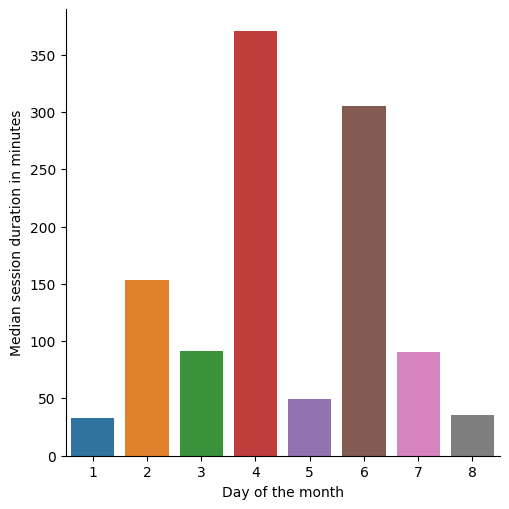
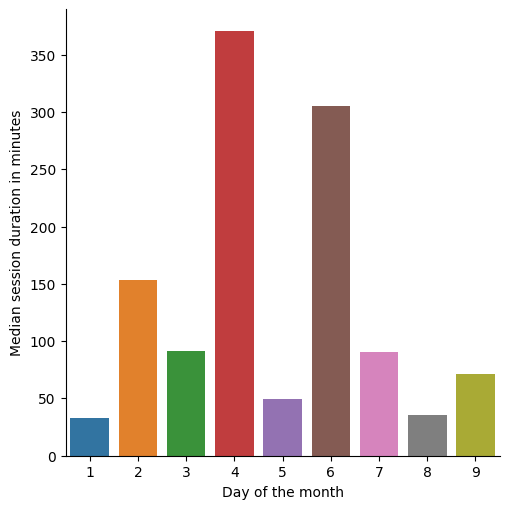
"Stats generated 2021-06-10"

diff --git a/all/2021/6/days/9/index.html b/all/2021/6/days/9/index.html
@@ -1,0 +1,29 @@
+<!DOCTYPE html>
+<html>
+  <head>
+    <meta charset="utf-8"/>
+    <title>9 June 2021</title>
+    <link rel="stylesheet" href="../../../../../styles.css"/>
+  </head>
+  <body>
+    <div id="container">
+      <nav>
+        <ul>
+          
+            <li><a href="../../">June 2021</a></li>
+            <li class="separator"></li>
+          
+          
+        </ul>
+      </nav>
+      <main>
+        <h1>9 June 2021</h1>
+        
+          <h2>Number of sessions per hour</h2>
+          <img src="sessions.png" alt="Number of sessions per hour"/>
+        
+        
+      </main>
+    </div>
+  </body>
+</html>

diff --git a/all/2021/index.html b/all/2021/index.html
@@ -107,9 +107,9 @@
                   
                     <td>6.0</td>
                   
-                    <td>34.0</td>
+                    <td>39.0</td>
                   
-                    <td>126.20636585833333</td>
+                    <td>119.09224680000001</td>
                   
                 </tr>
               

diff --git a/all/2021/6/index.html b/all/2021/6/index.html
@@ -82,6 +82,10 @@
               <li><a href="days/8/">8</a></li>
             
           
+            
+              <li><a href="days/9/">9</a></li>
+            
+          
         </ul>
       </nav>
       <main>
